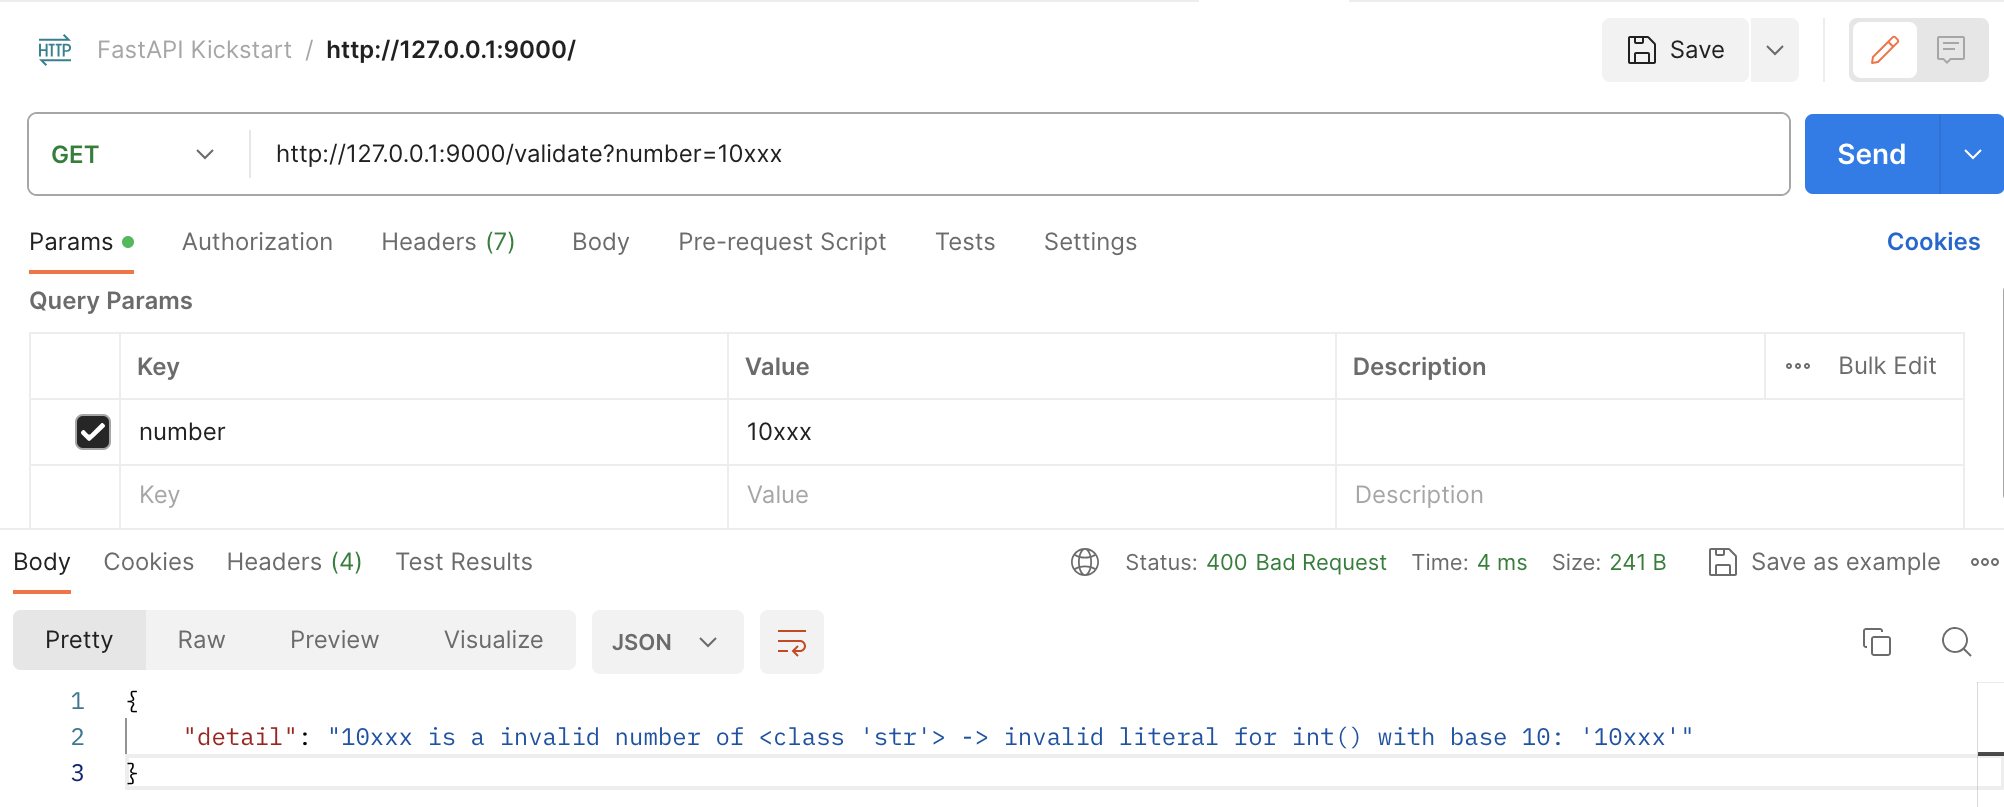
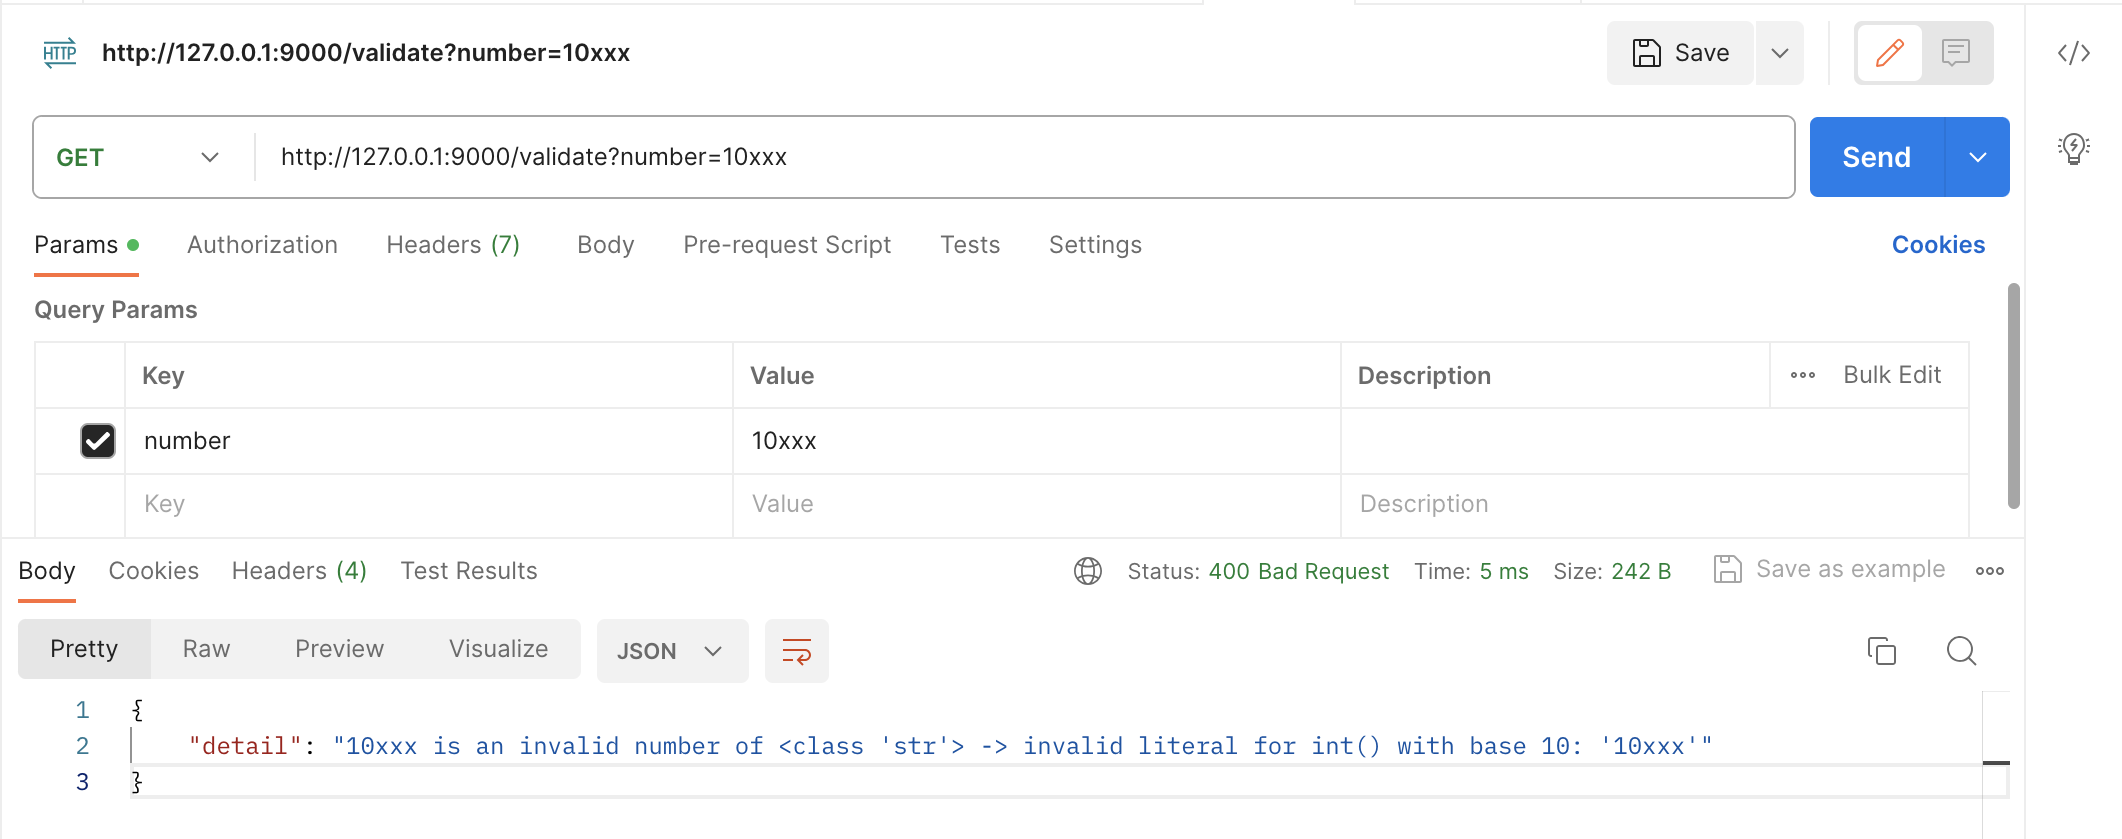
minor changes (issue fix)

diff --git a/main.py b/main.py
@@ -57,7 +57,7 @@ def validate_integer_numbers(
             "message": f"{number} is a valid number of {type(number)}"
         } 
     except Exception as error:
-        raise HTTPException(status_code=400, detail=f"{number} is a invalid number of {type(number)} -> {error}")
+        raise HTTPException(status_code=400, detail=f"{number} is an invalid number of {type(number)} -> {error}")
 
 
 class User(BaseModel):

diff --git a/README.md b/README.md
@@ -118,7 +118,7 @@ def validate_integer_numbers(
             "message": f"{number} is a valid number of {type(number)}"
         } 
     except Exception as error:
-        raise HTTPException(status_code=400, detail=f"{number} is a invalid number of {type(number)} -> {error}")
+        raise HTTPException(status_code=400, detail=f"{number} is an invalid number of {type(number)} -> {error}")
 ```
 
 -> Handing Exceptions - valid response 
